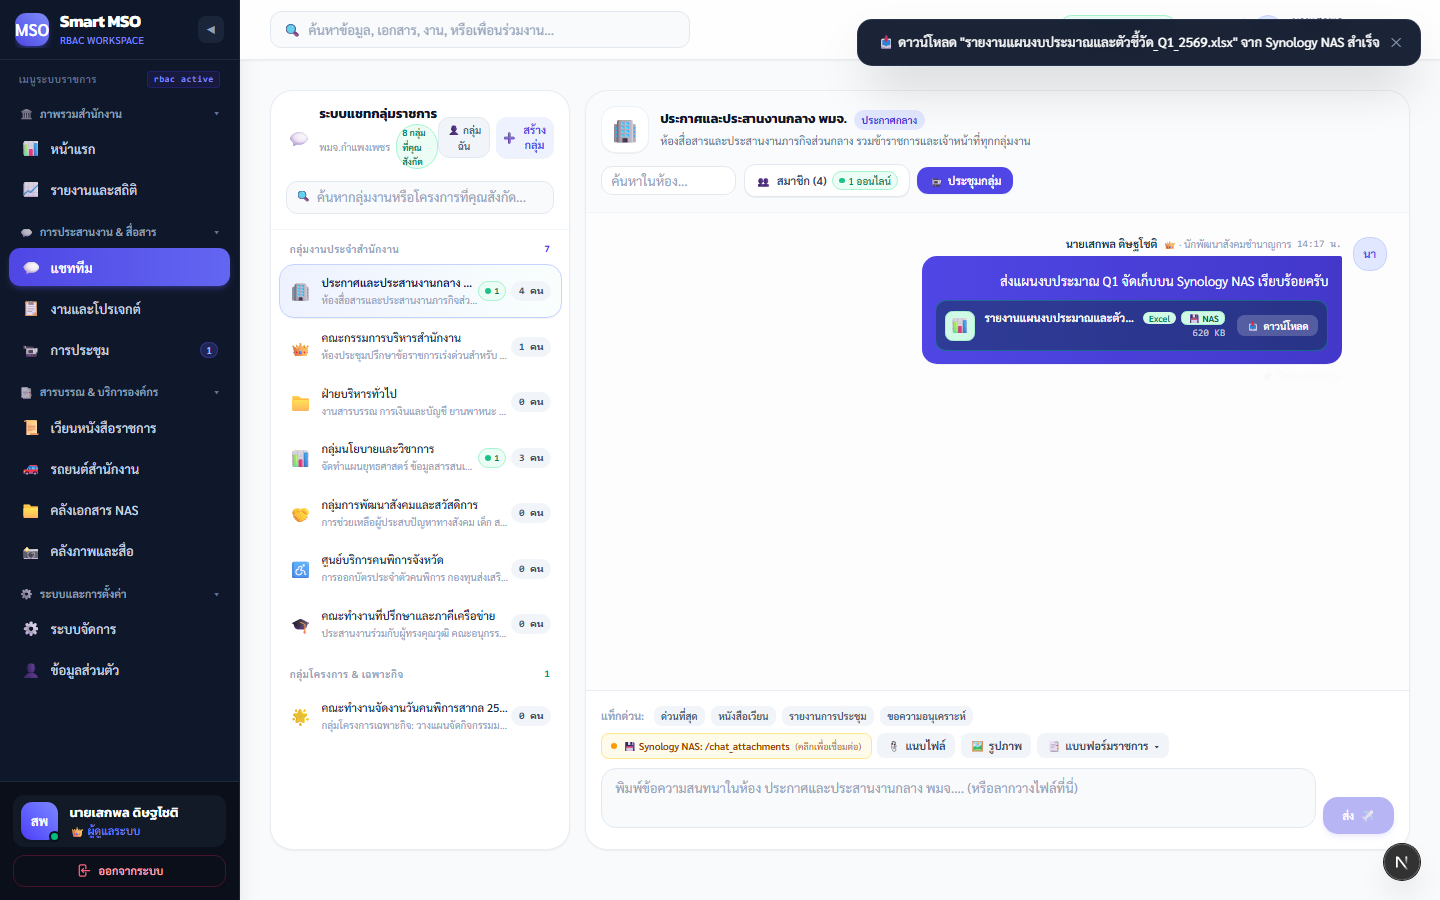
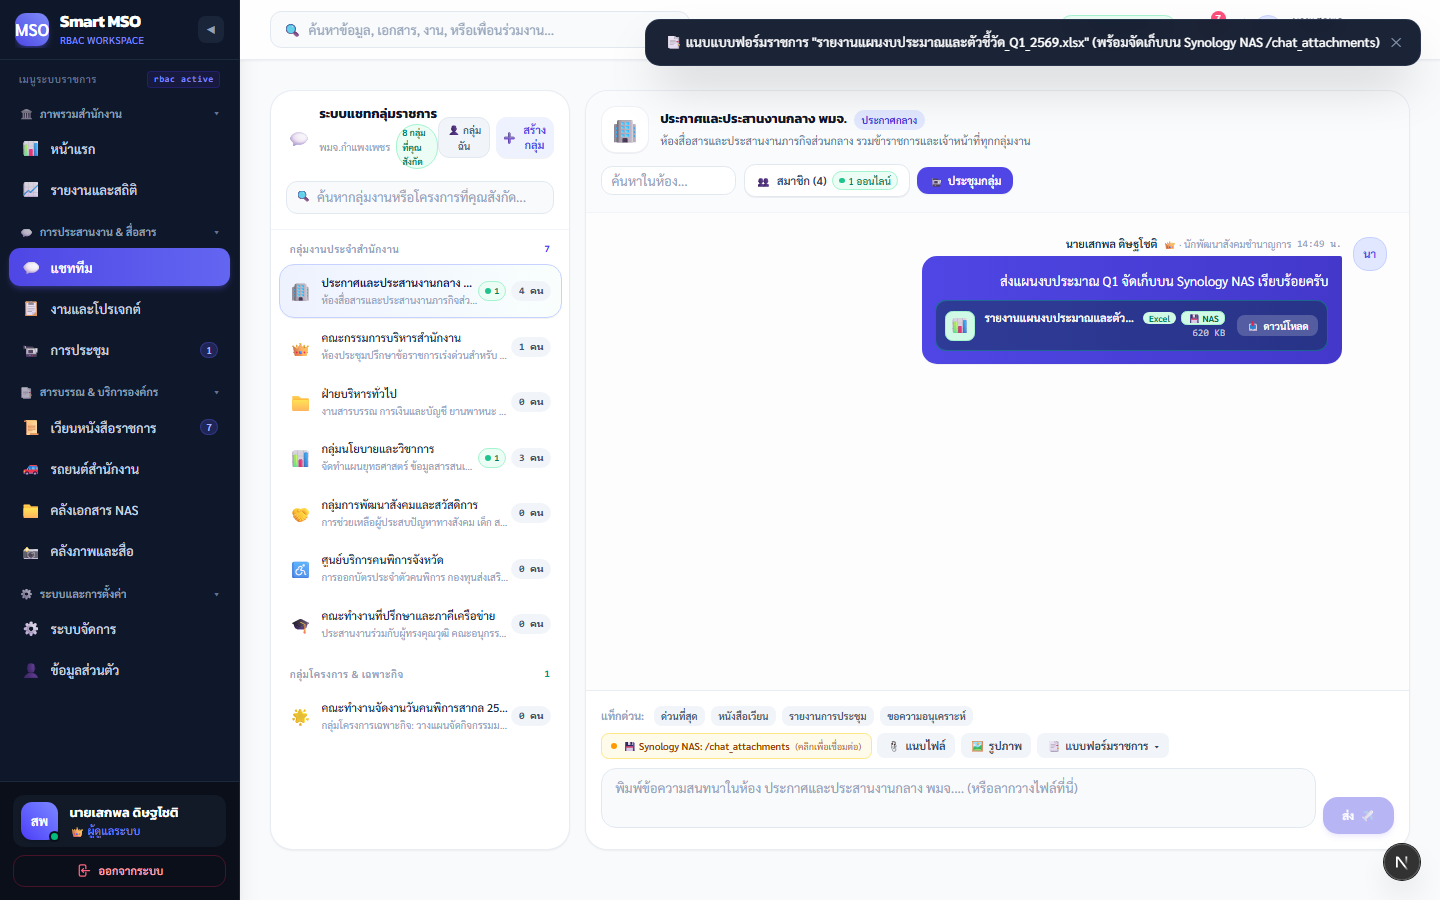
feat(notifications): integrate assigned tasks, access requests, and car booking realtime alerts into unified notification center

Changed region(s): [[0.4375, 0.0, 0.9688, 0.0933], [0.125, 0.4667, 0.1562, 0.4978]]

diff --git a/app/page.tsx b/app/page.tsx
@@ -635,7 +635,20 @@ export default function SmartMSOApp() {
       });
 
       const unsubscribeRequests = subscribeToAccessRequests((updatedRequests) => {
-        setAccessRequests(updatedRequests);
+        setAccessRequests((prev) => {
+          if (prev && prev.length > 0 && updatedRequests.length > prev.length) {
+            const newReq = updatedRequests[0];
+            if (currentUserRole === "admin") {
+              showToast(`📬 มีคำขอเข้าใช้งานใหม่: ${newReq.name} (${newReq.position})`);
+              if (typeof document !== "undefined") {
+                sendBrowserNotification(`📬 คำขอสิทธิ์ใหม่: ${newReq.name}`, {
+                  body: `${newReq.position} · ${newReq.division} (ขอสิทธิ์ ${newReq.requestedRole})`,
+                });
+              }
+            }
+          }
+          return updatedRequests;
+        });
       });
 
       const unsubscribeAudit = subscribeToAuditLogs(() => {
@@ -647,7 +660,25 @@ export default function SmartMSOApp() {
       });
 
       const unsubscribeTasks = subscribeToTasks((updatedTasks) => {
-        setTasks(updatedTasks);
+        setTasks((prev) => {
+          if (prev && prev.length > 0 && updatedTasks.length > prev.length) {
+            const newTask = updatedTasks[0];
+            if (
+              currentUser &&
+              (newTask.assigneeId === currentUser.id ||
+                newTask.assignee === currentUser.name ||
+                (currentUser.firstName && newTask.assignee?.includes(currentUser.firstName)))
+            ) {
+              showToast(`📋 งานมอบหมายใหม่: "${newTask.title}" (ฝ่าย${newTask.dept})`);
+              if (typeof document !== "undefined") {
+                sendBrowserNotification(`📋 งานมอบหมายใหม่: ${newTask.title}`, {
+                  body: `ฝ่าย${newTask.dept} · กำหนดส่ง: ${newTask.due || "เร็วๆ นี้"}`,
+                });
+              }
+            }
+          }
+          return updatedTasks;
+        });
       });
 
       const unsubscribeMeetings = subscribeToMeetings((updatedMeetings) => {
@@ -655,7 +686,15 @@ export default function SmartMSOApp() {
       });
 
       const unsubscribeCarBookings = subscribeToCarBookings((updatedBookings) => {
-        setCarBookings(updatedBookings);
+        setCarBookings((prev) => {
+          if (prev && prev.length > 0 && updatedBookings.length > prev.length) {
+            const newBooking = updatedBookings[0];
+            if (currentUserRole === "admin" || currentUserRole === "manager") {
+              showToast(`🚗 คำขอจองรถใหม่: ${newBooking.destination} โดย ${newBooking.requesterName}`);
+            }
+          }
+          return updatedBookings;
+        });
       });
 
       // Fetch chat messages, groups, and circular documents for Notification Center
@@ -1531,6 +1570,7 @@ export default function SmartMSOApp() {
       circularDocs,
       accessRequests,
       carBookings,
+      tasks,
       allMembers: members,
     });
   }, [
@@ -1541,6 +1581,7 @@ export default function SmartMSOApp() {
     circularDocs,
     accessRequests,
     carBookings,
+    tasks,
     members,
     readNotifRevision,
   ]);
@@ -2491,6 +2532,10 @@ export default function SmartMSOApp() {
                             ) : notif.type === "carbooking" ? (
                               <div className="w-8 h-8 rounded-xl bg-emerald-100 text-emerald-800 font-bold text-sm flex items-center justify-center">
                                 🚗
+                              </div>
+                            ) : notif.type === "task" ? (
+                              <div className="w-8 h-8 rounded-xl bg-orange-100 text-orange-800 font-bold text-sm flex items-center justify-center">
+                                📋
                               </div>
                             ) : (
                               <div className="w-8 h-8 rounded-xl bg-purple-100 text-purple-800 font-bold text-sm flex items-center justify-center">

diff --git a/lib/notifications.ts b/lib/notifications.ts
@@ -5,6 +5,7 @@ import {
   CircularDocument,
   AccessRequest,
   CarBookingRequest,
+  TaskItem,
   Member,
   Role,
 } from "./types";
@@ -133,6 +134,7 @@ export function buildUnifiedNotifications({
   circularDocs,
   accessRequests,
   carBookings,
+  tasks,
   allMembers,
 }: {
   currentUser: Member | null;
@@ -142,6 +144,7 @@ export function buildUnifiedNotifications({
   circularDocs: CircularDocument[];
   accessRequests: AccessRequest[];
   carBookings: CarBookingRequest[];
+  tasks?: TaskItem[];
   allMembers: Member[];
 }): SystemNotification[] {
   if (!currentUser) return [];
@@ -339,6 +342,39 @@ export function buildUnifiedNotifications({
         },
       });
     }
+  });
+
+  // ─── 5. ASSIGNED TASK NOTIFICATIONS ───
+  tasks?.forEach((task) => {
+    if (task.status === "done") return;
+    const isAssigned =
+      task.assigneeId === currentUser.id ||
+      (task.assignee && currentUser.name && task.assignee.trim() === currentUser.name.trim()) ||
+      (currentUser.firstName && task.assignee && task.assignee.includes(currentUser.firstName));
+
+    if (!isAssigned) return;
+
+    const notifId = `task_${task.id}`;
+    let priority: "normal" | "urgent" | "emergency" = "normal";
+    if (task.priority === "high") {
+      priority = "urgent";
+    }
+
+    notifs.push({
+      id: notifId,
+      type: "task",
+      title: `งานมอบหมาย: ${task.title}`,
+      message: `ฝ่าย${task.dept || currentUser.division || "งาน"} · กำหนดส่ง: ${task.due || "เร็วๆ นี้"} (${task.status === "in_progress" ? "กำลังทำ" : task.status === "review" ? "รอตรวจ" : "รอดำเนินการ"})`,
+      timestamp: task.due || "เร็วๆ นี้",
+      createdAt: task.createdAt || new Date().toISOString(),
+      isRead: readIds.has(notifId),
+      priority,
+      senderName: task.createdByName || "ผู้มอบหมาย",
+      link: {
+        page: "task",
+        targetId: String(task.id),
+      },
+    });
   });
 
   // Sort: Unread first, then by createdAt descending
